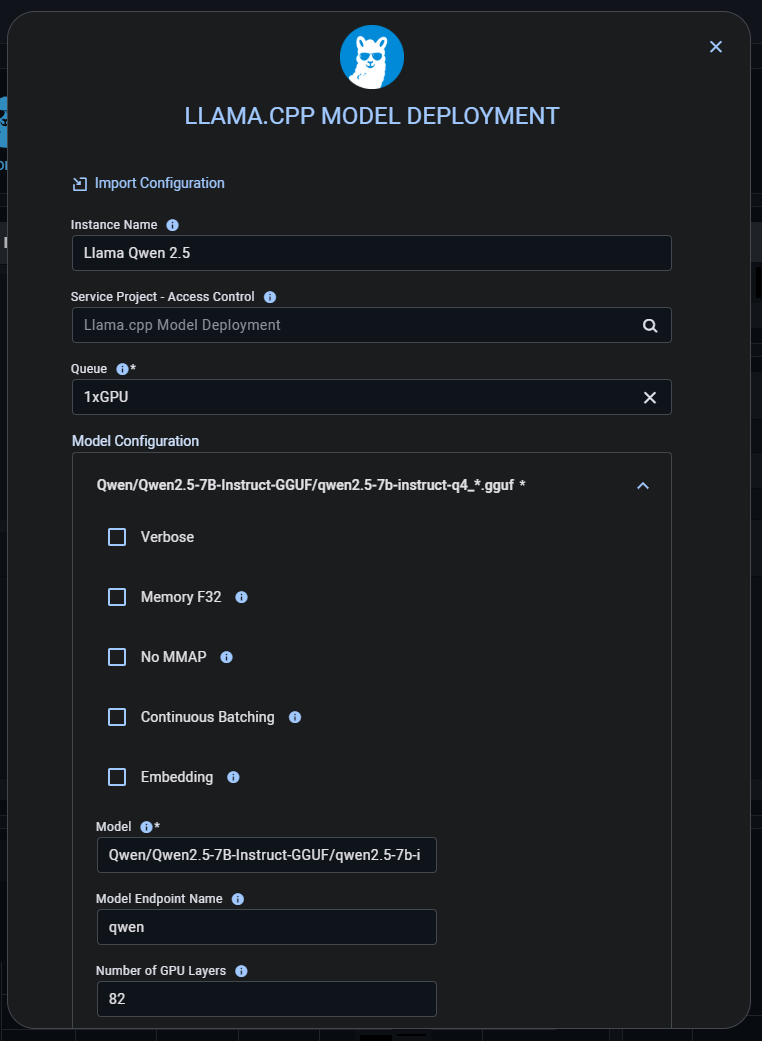
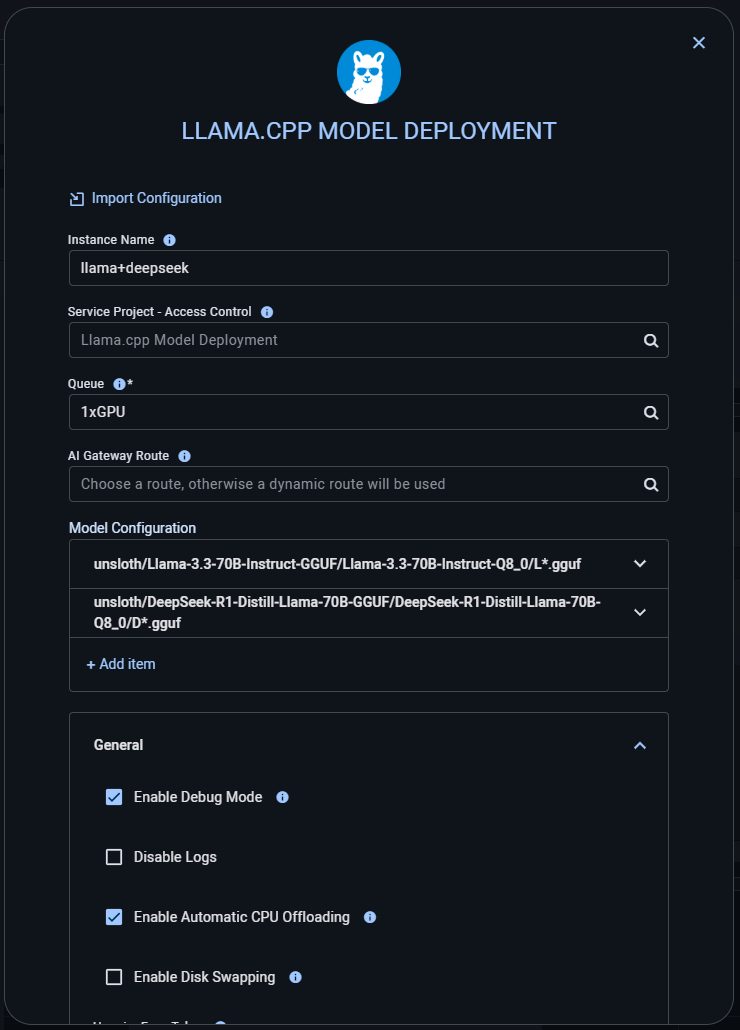
Update llama.cpp app

diff --git a/docs/webapp/applications/apps_llama_deployment.md b/docs/webapp/applications/apps_llama_deployment.md
@@ -8,9 +8,15 @@ The llama.cpp Model Deployment App is available under the ClearML Enterprise pla
 
 The llama.cpp Model Deployment app enables users to quickly deploy LLM models in GGUF format using [`llama.cpp`](https://github.com/ggerganov/llama.cpp). 
 The llama.cpp Model Deployment application serves your model on a machine of your choice. Once an app instance is 
-running, it serves your model through a secure, publicly accessible network endpoint. The app monitors endpoint activity 
-and shuts down if the model remains inactive for a specified maximum idle time.
+running, it serves your model through a secure, publicly accessible network endpoint. 
 
+The app supports multi-model hosting and Universal Memory technology, enabling inactive models to be offloaded to other
+memory options to free GPU resources:
+
+* CPU RAM – via `Automatic CPU Offloading` and configurable `Max CUDA Memory` limits.  
+* Disk storage – via `Disk Swapping` (requires `Automatic CPU Offloading` to be disabled).
+
+The app monitors endpoint activity and shuts down if the model remains inactive over a specified maximum idle time.
 :::important AI Application Gateway
 The llama.cpp Model Deployment app makes use of the App Gateway Router which implements a secure, authenticated 
 network endpoint for the model. 
@@ -26,12 +32,18 @@ After starting a llama.cpp Model Deployment instance, you can view the following
   * <img src="/docs/latest/icons/ico-llama-idle.svg" alt="Idle server" className="icon size-lg space-sm" /> - App instance is idle
   * <img src="/docs/latest/icons/ico-llama-stopped.svg" alt="Stopped server" className="icon size-lg space-sm" /> - App instance is stopped
 * Idle time - Time elapsed since last activity
-* App - The publicly accessible URL of the model endpoint. Active model endpoints are also available in the 
-  [Model Endpoints](../webapp_model_endpoints.md) table, which allows you to view and compare endpoint details and 
-  monitor status over time
-* API base - The base URL for the model endpoint
-* API key - The authentication key for the model endpoint
-* Test Command - An example command line to test the deployed model
+* Generate Token - Link to your workspace Settings page, where you can generate a token for accessing your deployed model 
+in the `AI APPLICATION GATEWAY` section  
+* Deployed models table:  
+  * Model name  
+  * Endpoint - The publicly accessible URL of the model endpoint. Active model endpoints are also listed in the 
+  [Model Endpoints](https://clear.ml/docs/latest/docs/webapp/webapp_model_endpoints) table, which allows you to view and 
+  compare endpoint details and monitor their status over time  
+* Model access command line example  
+  * Select model the command should access  
+  *  Prompt - Provide a prompt to send to the model.  
+  * The `curl` command line to send your prompt to the selected model’s endpoint. Replace `YOUR_GENERATED_TOKEN` with a 
+  valid token generated in the `AI APPLICATION GATEWAY` section of the [Settings](http://settings) page.
 * Total Number of Requests - Number of requests over time
 * Tokens per Second - Number of tokens processed over time
 * Latency - Request response time (ms) over time
@@ -45,7 +57,8 @@ After starting a llama.cpp Model Deployment instance, you can view the following
   * GPU temperature
 * Console log - The console log shows the app instance's console output: setup progress, status changes, error messages, etc.
 
-![llama deployment dashboard](../../img/apps_llama_dashboard.png)
+![llama deployment dashboard](../../img/apps_llama_dashboard.png#light-mode-only)
+![llama deployment dashboard](../../img/apps_llama_dashboard_dark.png#dark-mode-only)
 
 :::tip EMBEDDING CLEARML VISUALIZATION
 You can embed plots from the app instance dashboard into [ClearML Reports](../webapp_reports.md). These visualizations 
@@ -69,24 +82,89 @@ To configure a new app instance, click `Launch New` <img src="/docs/latest/icons
 to open the app's configuration form.
 
 ## Configuration Options
-* **Import Configuration** - Import an app instance configuration file. This will fill the configuration form with the 
+* **Import Configuration**: Import an app instance configuration file. This will fill the configuration form with the 
 values from the file, which can be modified before launching the app instance
-* **Project name** - ClearML Project where your llama.cpp Model Deployment app instance will be stored
-* **Task name** - Name of [ClearML Task](../../fundamentals/task.md) for your llama.cpp Model Deployment app instance
-* **Queue** - The [ClearML Queue](../../fundamentals/agents_and_queues.md#what-is-a-queue) to which the 
+* **Instance name**: Name for the Llama.cpp Model Deployment instance. This will appear in the instance list
+* **Service Project (Access Control)**: The ClearML project where the app instance is created. Access is determined by 
+  project-level permissions (i.e. users with read access can use the app instance).
+* **Queue**: The [ClearML Queue](../../fundamentals/agents_and_queues.md#what-is-a-queue) to which the 
   llama.cpp Model Deployment app instance task will be enqueued (make sure an agent is assigned to it)  
-**AI Gateway Route** - Select an available, admin-preconfigured route to use as the service endpoint. If none is selected, an ephemeral endpoint will be created.
-* **Model** - A ClearML Model ID or a Hugging Face model. The model must be in GGUF format. If you are using a 
-  HuggingFace model, make sure to pass the path to the GGUF file. For example: `provider/repo/path/to/model.gguf`
-* **General**
-  * Hugging Face Token - Token for accessing Hugging Face models that require authentication
-  * Number of GPU Layers - Number of layers to store in VRAM. `9999` indicates that all layers should be loaded in 
-  VRAM. Used to offload the model on the CPU RAM
-* **Advanced Options**
-  * Idle Time Limit (Hours) - Maximum idle time after which the app instance will shut down
-  * Last Action Report Interval (Seconds) - The frequency at which the last activity made by the application is reported. 
-  Used to stop the application from entering an idle state when the machine metrics are low but the application is 
-  actually still running
+**AI Gateway Route**: Select an available, admin-preconfigured route to use as the service endpoint. If none is selected, an ephemeral endpoint will be created.
+* **Model Configuration**: Configure the behavior and performance of the model serving engine.   
+  * CLI: Llama.cpp CLI arguments. If set, these arguments will be passed to Llama.cpp and all following entries will be 
+  ignored, except for the `Model` field.  
+  * Verbose: Enable detailed logging   
+  * No MMAP: Disable memory-mapping of model files. May improve performance on some systems but increases memory usage.  
+  * Continuous Batching: Enable continuous batching for processing multiple requests efficiently. Improves throughput for 
+  multiple concurrent requests.  
+  * Embedding: Generate embeddings instead of text. Useful for semantic search and text similarity tasks.  
+  * Model: A ClearML Model ID or a Hugging Face model. The model must be in GGUF format. If you are using a HuggingFace model, 
+  make sure to pass the path to the GGUF file. For example: `provider/repo/path/to/model.gguf`  
+  * Model Endpoint Name: The name to be used for API access.  
+  * Number of GPU Layers: Number of layers to store in VRAM instead of system RAM (CPU). `9999` loads all layers into VRAM.  
+  * Repeat Penalty: Penalty factor to apply due to repeat sequence of tokens. To disable, set to `1.0`.  
+  * Temperature: Controls randomness in text generation. The higher the temperature results in lower probability, or more 
+  "creative" outputs, while lower temperature results in higher probability, or more predictable outputs.   
+  * Top-K: How many of the highest-probability tokens are considered for text generation  
+  * Top-P: Nucleus sampling threshold. Instead of a fixed number of tokens, selects tokens whose cumulative probability 
+  adds up to P. Lower values produce more focused text, higher values more diverse text.  
+  * Min-P: Minimum probability threshold for a token to be considered. Tokens below this probability are excluded 
+  regardless of Top-K or Top-P.  
+  * XTC Probability: (Experimental Token Control) Probability of applying the XTC token selection strategy during generation.  
+  * XTC Threshold – The probability threshold used by the XTC strategy to determine whether a token is included in the candidate set.  
+  * Typlical: Locally typical sampling (typical-P)  
+  * Repeat Last N: Last N tokens to consider for penalize  
+  * Context Size: Maximum number of tokens the LLM can process at once when generating a response.  
+  * RoPE Frequency Base: Base frequency for RoPE. Affects how position information is encoded in the model. Default
+  is `10000.0`.   
+  * RoPE Scaling: Scale factor for Rotary Position Embeddings (RoPE). Affects the model's ability to handle longer 
+  sequences beyond its training length.  
+  * RoPE Frequency Scale: Frequency scaling factor for Rotary Position Embedding. Adjusts position encoding scale. Used 
+  in conjunction with `RoPE Frequency Base` to fine-tune position embeddings.  
+  * YaRN configuration: [YaRN (**Y**et **a**nother **R**oPE extensio**N** method)](https://github.com/jquesnelle/yarn) is
+  a compute-efficient method to extend the context window of llama models, requiring less tokens and training steps.  
+    * YaRN Extrapolation Mix Factor: Controls context length extension. Default is 1.0. To disable YaRN, set to `-1.0`.  
+    * YaRN Attention Factor: YaRN attention scaling factor. Affects attention computation in extended context. Higher 
+    values increase attention to distant tokens. Default is `1.0`.  
+    * YaRN Beta Fast: YaRN fast-path beta parameter. Controls the scaling behavior for nearby token relationships in 
+    extended context. Default is `32.0`.  
+    * YaRN Beta Slow: YaRN slow-path beta parameter. Controls the scaling behavior for distant token relationships in 
+    extended context. Default is `1.0`.   
+  * Threads: Number of CPU threads for parallel processing. Higher values can improve performance on multi-core systems 
+  but may increase CPU usage.  
+  * Threads Batch: Number of threads for batch processing (separate from main processing threads). Optimizes handling of 
+  multiple requests.  
+  * Tensor Split: How split tensors should be distributed across GPUs. Input a comma-separated list of proportions for 
+  splitting tensors across GPUs. For example, `3,2` will assign 60% of the data to GPU 0 and 40% to GPU 1  
+  * Parallel: Number of slots for process requests  
+  * Max Concurrent Requests: The maximum number of concurrent requests for this particular deployment. Having a low limit 
+  will deny client requests instead of having them wait for too long  
+  * NUMA: Select the NUMA (non-uniform memory access) optimization mode:  
+    * 'distributed': Splits across nodes   
+    * 'isolate': Runs on a single node  
+    * 'numactl': Uses system NUMA policy.  
+  * Split Mode: Split mode determines how the model is distributed across multiple GPUs. Select model splitting mode:   
+    * 'none': Uses single GPU for the entire model  
+    * 'Layer': Splits the model by layers across multiple GPUs (default)  
+    * 'row': Splits the model’s weight matrices row-wise  
+  * Main GPU: Index of the primary GPU to use (e.g., '0'). When using multiple GPUs, this GPU will handle the main computation load.  
+* General  
+  * Enable Debug Mode: Run deployment in debug mode  
+  * Disable Logs  
+  * Enable Automatic CPU Offloading: Enable multiple models to share GPUs by offloading idle models to CPU. If `Max CUDA Memory` 
+  exceeds GPU capacity, this application will offload the surplus to the CPU RAM, virtually increasing the VRAM  
+  * Enable Disk Swapping: Load multiple models on the same GPUs by offloading idle models to disk (requires 
+  `Automatic CPU Offloading` to be disabled).  
+  * Hugging Face Token: Token for accessing Hugging Face models that require authentication  
+  *  Max CUDA Memory (GiB): The maximum amount of CUDA memory identified by the system. Can exceed the actual hardware 
+  memory. The surplus memory will be offloaded to the CPU memory. Only usable on amd64 machines.  
+  *  CUDA Memory Manager Minimum Threshold: Maximum size (Kb) of the allocated chunks that should not be offloaded to 
+  CPU when using automatic CPU offloading. Defaults to `-1` when running on single GPU, and `66000` (64Mib) when running on multiple GPUs  
+* Idle Options   
+  * Idle Time Limit (Hours): Maximum idle time after which the app instance will shut down  
+  * Last Action Report Interval (Seconds): The frequency at which the last activity made by the application is reported. 
+  Used to stop the application from entering an idle state when the machine metrics are low but the application is actually still running  
+
 
 <div class="max-w-65">
 
